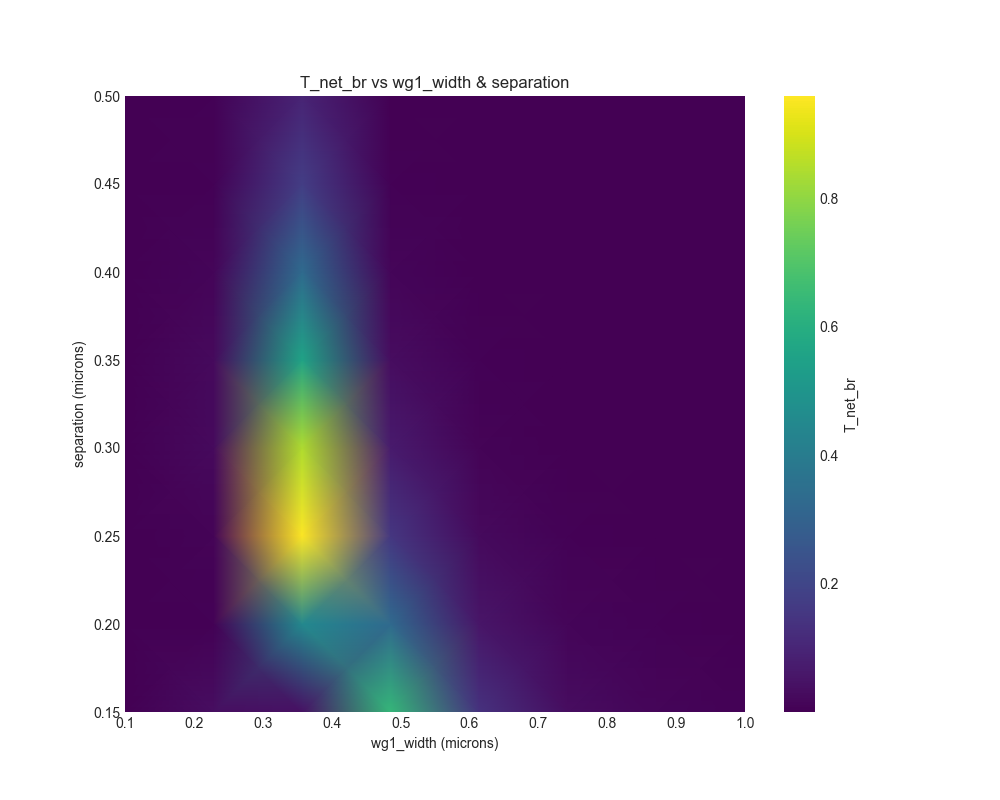
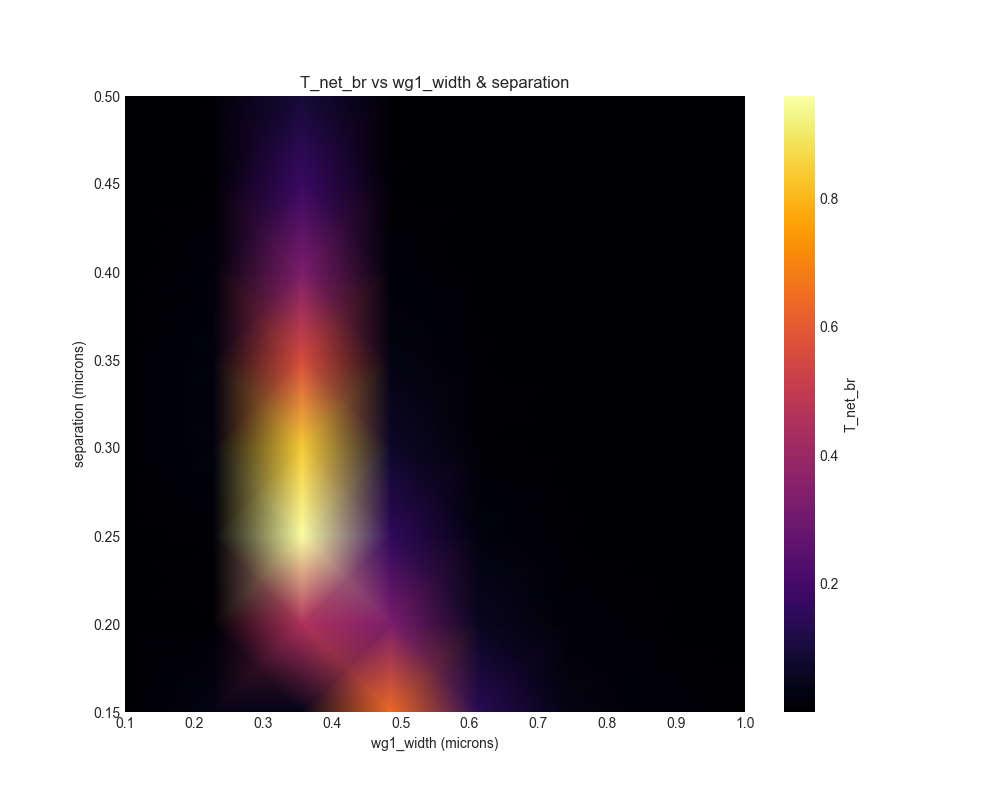
Change colormap

diff --git a/sb4/__main__.py b/sb4/__main__.py
@@ -679,7 +679,7 @@ def plot_sweep(
             logger.error("All Z_data for heatmap is NaN. Cannot plot.")
             raise typer.Exit(code=1)
 
-        pcm = plt.pcolormesh(X_mesh, Y_mesh, Z_data, shading="gouraud", cmap="viridis", vmin=np.nanmin(Z_data), vmax=np.nanmax(Z_data))
+        pcm = plt.pcolormesh(X_mesh, Y_mesh, Z_data, shading="gouraud", cmap="inferno", vmin=np.nanmin(Z_data), vmax=np.nanmax(Z_data))
         plt.colorbar(pcm, label=result_attribute)
         plt.xlabel(f"{param_name_x} (microns)")
         plt.ylabel(f"{param_name_y} (microns)")
